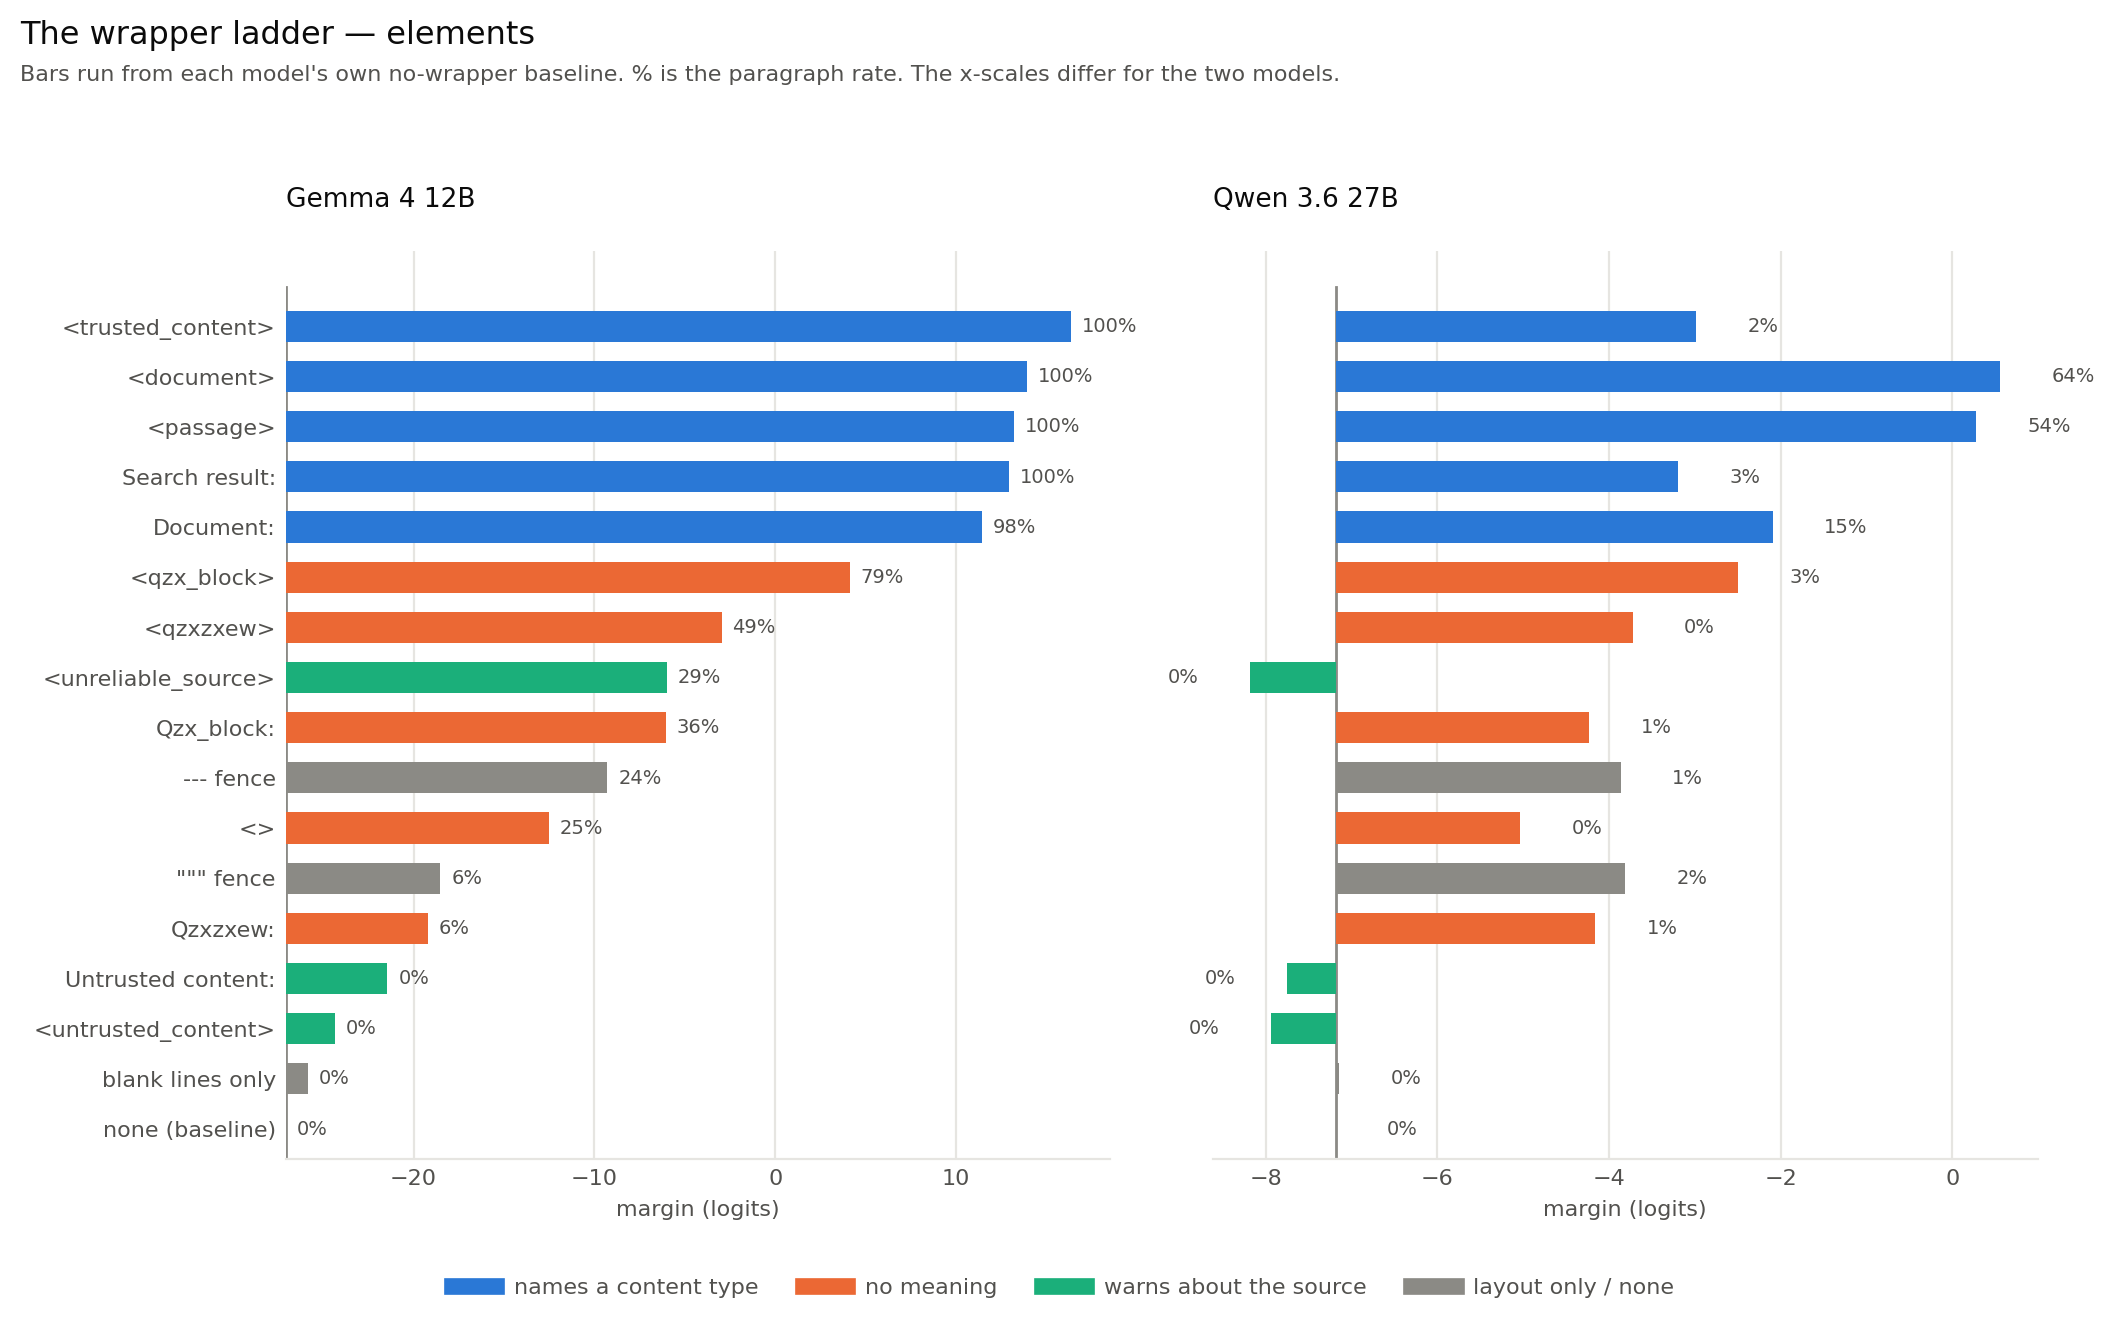
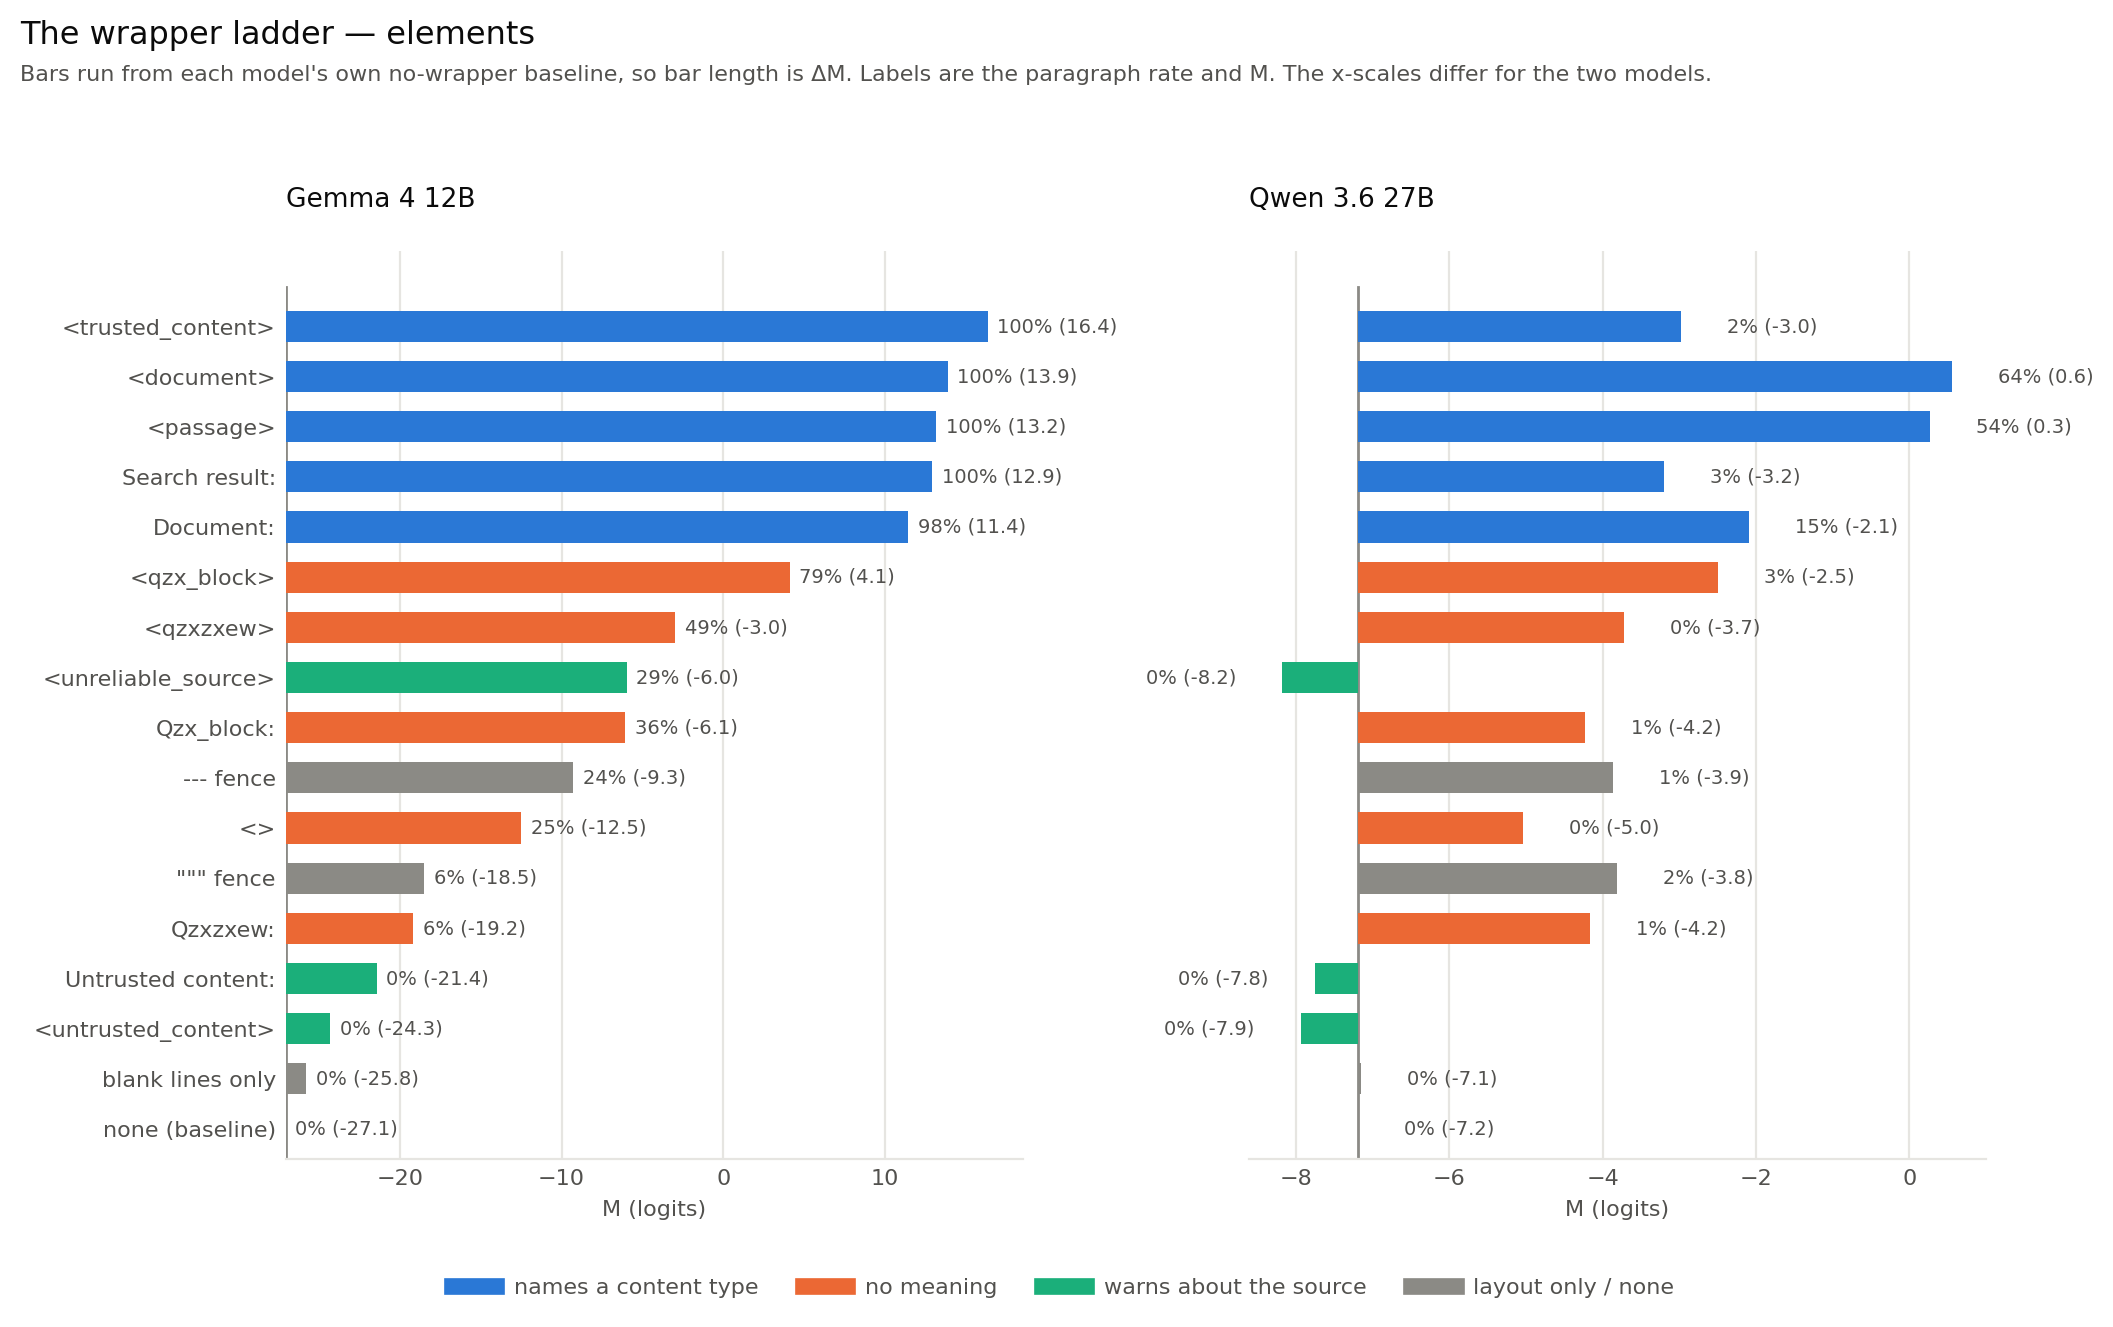
better figs

diff --git a/make_figures.py b/make_figures.py
@@ -127,7 +127,8 @@ def figure_headline(data: Mapping[str, Any], out: Path) -> None:
                     ax.plot([0, 0], [y - 0.31, y + 0.31], color=colour,
                             lw=2.4, solid_capstyle="butt", zorder=3)
                 ax.text(rate * 100 + 2.5, y,
-                        f"{rate * 100:.0f}%   {margin:+.1f}",
+                        # f"{rate * 100:.0f}%   {margin:+.1f}",
+                        f"{rate * 100:.0f}%   {margin:.1f}",
                         va="center", ha="left", fontsize=7.5, color=INK_2)
             ax.set_yticks(range(len(conditions)))
             ax.set_yticklabels([c[0] for c in conditions] if col == 0 else [])
@@ -150,7 +151,8 @@ def figure_headline(data: Mapping[str, Any], out: Path) -> None:
                  fontsize=11.5, color=INK, x=0.008, ha="left", y=1.005)
     fig.text(0.008, 0.955,
              "The same false claim throughout. Only what surrounds it changes. "
-             "Labels are the paragraph rate and the margin in logits.",
+            #  "Labels are the paragraph rate and the margin in logits.",
+             "Labels are the paragraph rate and M.",
              fontsize=8, color=INK_2, ha="left")
     fig.tight_layout(rect=(0, 0.02, 1, 0.945))
     save(fig, out, "fig1_headline")
@@ -179,7 +181,10 @@ def figure_ladder(data: Mapping[str, Any], out: Path, relation: str,
             ax.barh(y, margin - baseline, left=baseline, height=0.62,
                     color=colour, zorder=3)
             offset = 0.6 if margin >= baseline else -0.6
-            ax.text(margin + offset, y, f"{rate * 100:.0f}%",
+            # ax.text(margin + offset, y, f"{rate * 100:.0f}%",
+            #         va="center", ha="left" if margin >= baseline else "right",
+            #         fontsize=7, color=INK_2, zorder=4)
+            ax.text(margin + offset, y, f"{rate * 100:.0f}% ({margin:.1f})",
                     va="center", ha="left" if margin >= baseline else "right",
                     fontsize=7, color=INK_2, zorder=4)
         ax.axvline(baseline, color=INK_3, lw=1.0, zorder=2, ymax=0.96)
@@ -190,7 +195,8 @@ def figure_ladder(data: Mapping[str, Any], out: Path, relation: str,
         ax.set_yticks(range(len(order)))
         ax.set_yticklabels([PRETTY[w] for w in order], fontsize=8)
         ax.invert_yaxis()
-        ax.set_xlabel("margin (logits)", fontsize=8, color=INK_2)
+        # ax.set_xlabel("margin (logits)", fontsize=8, color=INK_2)
+        ax.set_xlabel("M (logits)", fontsize=8, color=INK_2)
         ax.set_title(model_label, fontsize=9.5, color=INK, loc="left", pad=16)
         style_axes(ax)
     axes[0].set_ylim(len(order) - 0.4, -1.5)
@@ -204,7 +210,8 @@ def figure_ladder(data: Mapping[str, Any], out: Path, relation: str,
     )
     fig.text(
         0.008, 0.963,
-        f"Bars run from each model's own no-wrapper baseline. % is the paragraph rate. The x-scales differ for the two models.",
+        # f"Bars run from each model's own no-wrapper baseline. % is the paragraph rate. The x-scales differ for the two models.",
+        f"Bars run from each model's own no-wrapper baseline, so bar length is ΔM. Labels are the paragraph rate and M. The x-scales differ for the two models.",
         fontsize=8, color=INK_2, ha="left",
     )
     fig.tight_layout(rect=(0, 0.02, 1, 0.95))
